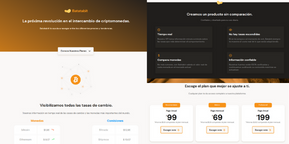
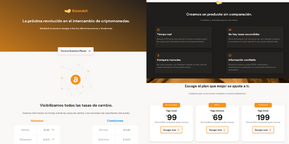
tablet layout updated,slider added

diff --git a/index.html b/index.html
@@ -338,7 +338,8 @@
     <section class="experience" id="xp">
         <h2 class="experience__section__title">Experiencia Profesional</h2>
         <div class="experience__projects">
-            <div class="experiencie__box">
+            <div class="experience__professional--slider">
+            <div class="experiencie__box experience__professional--card">
                 <!-- Pon el logotipo/captura de pantalla de tu proyecto -->
                 <img class="experience__img" src="assets/vacunapage.PNG" title="Reto CSS consistía en recrear una página web tal cual el diseño mockup y desplegarla en github." width="289" height="144">
                 
@@ -356,7 +357,7 @@
 
         
         <!-- <div class="experience__projects"> -->
-            <div class="experiencie__box">
+            <div class="experiencie__box experience__professional--card">
                 <!-- Pon el logotipo/captura de pantalla de tu proyecto -->
                 <img class="experience__img" src="assets/pokedex.PNG" title="Reto JavaScript que consiste en un buscador de pokemones a través de una conexión con la API oficial." width="289" height="144">
                 
@@ -371,7 +372,7 @@
                 </div>
             </div>
 
-            <div class="experiencie__box">
+            <div class="experiencie__box experience__professional--card">
                 <!-- Pon el logotipo/captura de pantalla de tu proyecto -->
                 <img class="experience__img" src="assets/tetra.png" title="Reto JavaScript que consiste en ingresar cualquier texto y mostrarlo encriptado."  width="289" height="144">
                 
@@ -386,7 +387,7 @@
                 </div>
             </div>
 
-            <div class="experiencie__box">
+            <div class="experiencie__box experience__professional--card">
                 <!-- Pon el logotipo/captura de pantalla de tu proyecto -->
                 <img class="experience__img" src="assets/batata.png" title="Práctica CSS que consiste en usar un patrón de diseño MOBILE-FIRST"  width="289" height="144">
                 
@@ -401,7 +402,7 @@
                 </div>
             </div>
 
-            <div class="experiencie__box">
+            <div class="experiencie__box experience__professional--card">
                 <!-- Pon el logotipo/captura de pantalla de tu proyecto -->
                 <img class="experience__img" src="assets/playbook.png" title="Practicas backend desarrolladas durante el BootCamp Microsoft Launch X donde se pusieron en práctica tecnologías como: Express, node Js, SQL, prismaDB,  pruebas de unidad con JEST,  y creación de API con postman." width="289" height="144">
                 
@@ -416,7 +417,7 @@
                 </div>
             </div>
 
-            <div class="experiencie__box">
+            <div class="experiencie__box experience__professional--card">
                 <!-- Pon el logotipo/captura de pantalla de tu proyecto -->
                 <img class="experience__img" src="assets/barberia.PNG" title="Práctica CSS de una barbería ficticia donde se pusieron a prueba conocimientos de maquetación con HTML, estilos con CSS y uso de MediaQuery para la responsividad del sitio." width="289" height="144">
                 
@@ -431,7 +432,7 @@
                 </div>
             </div>
 
-            <div class="experiencie__box">
+            <div class="experiencie__box experience__professional--card">
                 <!-- Pon el logotipo/captura de pantalla de tu proyecto -->
                 <img class="experience__img" src="assets/nutricion.PNG" title="Práctica Javascript donde se puede buscar pacientes de una tabla a la cual se le puede agregar más elementos gracias a la manipulación DOM y buenas practicas para conectar CSS, HTML y JS" width="289" height="144">
                 
@@ -446,7 +447,7 @@
                 </div>
             </div>
 
-            <div class="experiencie__box">
+            <div class="experiencie__box experience__professional--card">
                 <!-- Pon el logotipo/captura de pantalla de tu proyecto -->
                 <img class="experience__img" src="assets/flexboxpage.PNG" title="Práctica CSS donde se puso a prueba conocimientos del uso de Flexbox." width="289" height="144">
                 
@@ -461,7 +462,7 @@
                 </div>
             </div>
 
-            <div class="experiencie__box">
+            <div class="experiencie__box experience__professional--card">
                 <!-- Pon el logotipo/captura de pantalla de tu proyecto -->
                 <img class="experience__img" src="assets/gridpage.PNG" title="Práctica CSS donde se puso a prueba conocimientos del uso de GRID." width="289" height="144">
                 
@@ -476,7 +477,7 @@
                 </div>
             </div>
 
-            <div class="experiencie__box">
+            <div class="experiencie__box experience__professional--card">
                 <!-- Pon el logotipo/captura de pantalla de tu proyecto -->
                 <img class="experience__img" src="assets/ecomerce.PNG" title="Práctica donde se integra el uso de las tecnolgias básicas del desarrollo web HTML,CSS y JS." width="289" height="144">
                 
@@ -491,7 +492,7 @@
                 </div>
             </div>
 
-            <div class="experiencie__box">
+            <div class="experiencie__box experience__professional--card">
                 <!-- Pon el logotipo/captura de pantalla de tu proyecto -->
                 <img class="experience__img" src="assets/apeperia.PNG" title="Práctica que consistía en recrear una página web tal cual el diseño mockup y desplegarla en github pages." width="289" height="144">
                 
@@ -506,7 +507,7 @@
                 </div>
             </div>
 
-            
+            </div> <!-- Proffesional experience -->
         </div> <!-- experience projects -->
         
         <div class="experience__projects2">

diff --git a/CSS/tablet.css b/CSS/tablet.css
@@ -9,8 +9,8 @@
 
     
 .tudo{
-    min-width: 621px;
-    max-width: 810px;
+    min-width: 768px;
+    max-width: 1199px;
     margin: 0 auto;
 }
 
@@ -21,13 +21,27 @@
 }
 
 .menu__title{
-    margin-right: 399px;
+    /* margin-right: 199px; */
 }
 
 .menu__header li{
     font-size: 1.6rem;
     font-weight: 700;
     color: var(--primary-text-color);
+}
+
+.menu__list__item__contato{
+    display: flex;
+    justify-content: space-between;
+}
+
+.menu__header h3{
+    font-size: 1.7rem;
+}
+
+.menu__header img{
+    width: 60px;
+    height: 60px;
 }
 
 .title__div{
@@ -63,9 +77,49 @@
     color: var(--primary-text-color);
 }
 
+section.experience{
+    border: coral solid;
+}
+
+/* experiencia profesional */
+.experience__professional--slider{
+    display: flex;
+    /* height: 310px; */
+    height: 340px;
+    overflow-x: scroll;
+    overflow-y: hidden;
+    overscroll-behavior-x: contain;
+    scroll-snap-type: x proximity;
+    margin: 0 30px;
+}
+
+.experience__professional--card{
+    display: flex;
+    flex-direction: column;
+    justify-content: center;
+    align-content: center;
+    position: relative;
+    width: 97%;
+    min-width: 300px;
+    max-width: 300px;
+    height: 250px;
+    margin: 20px 11px 0;
+    padding: 0 15px; /* para crear un pequeño borde */
+    background-color: var(--color-light);
+    border-radius: 15px;
+    box-shadow: 0 4px 8px rgba(89, 73, 30, 0.16);
+}
+
+.experience__professional--card .experience__img{
+    width: 150px;
+    height: 90px;
+    align-self: center;
+
+
+
 .academic__courses{
     display: flex;
-    flex-direction: row;
+    flex-direction: column;
     height: auto;
 }
 
@@ -76,7 +130,7 @@
 .academic__courses__box{
     /* border: #2A7AE4 solid; */
     width: 250px;
-    height: 280px;
+    height: 230px;
     justify-content: center;
     /* align-items: flex-start; */
 }

diff --git a/CSS/desktop.css b/CSS/desktop.css
@@ -1,3 +1,18 @@
+:root{
+    -cor-de-fundo: #F5F5F5;
+    --cor-de-link: #000;
+    --primary-blue: #EAF2FD;
+    --main-background: #f5f5f5;
+    --primary-text-color: #464646;
+    --primary-button-color: #2A7AE4;
+    }
+
+    
+.tudo{
+    min-width: 1200px;
+    margin: 0 auto;
+}
+
 /*Menu*/
 
 /*Titulo*/

diff --git a/README.md b/README.md
@@ -17,7 +17,7 @@ Para ingresar al CV interactivo haz click en el siguiente enlace:
 
 
 ### To do list
-
+- Revisar imagen de batata
 - integrar barras de progreso en competencias*
 - Hacer menu sticky*
 - Modificar nombre completo, completar cuando se amplie a tablet y desktop o reducir tamaño fuente
